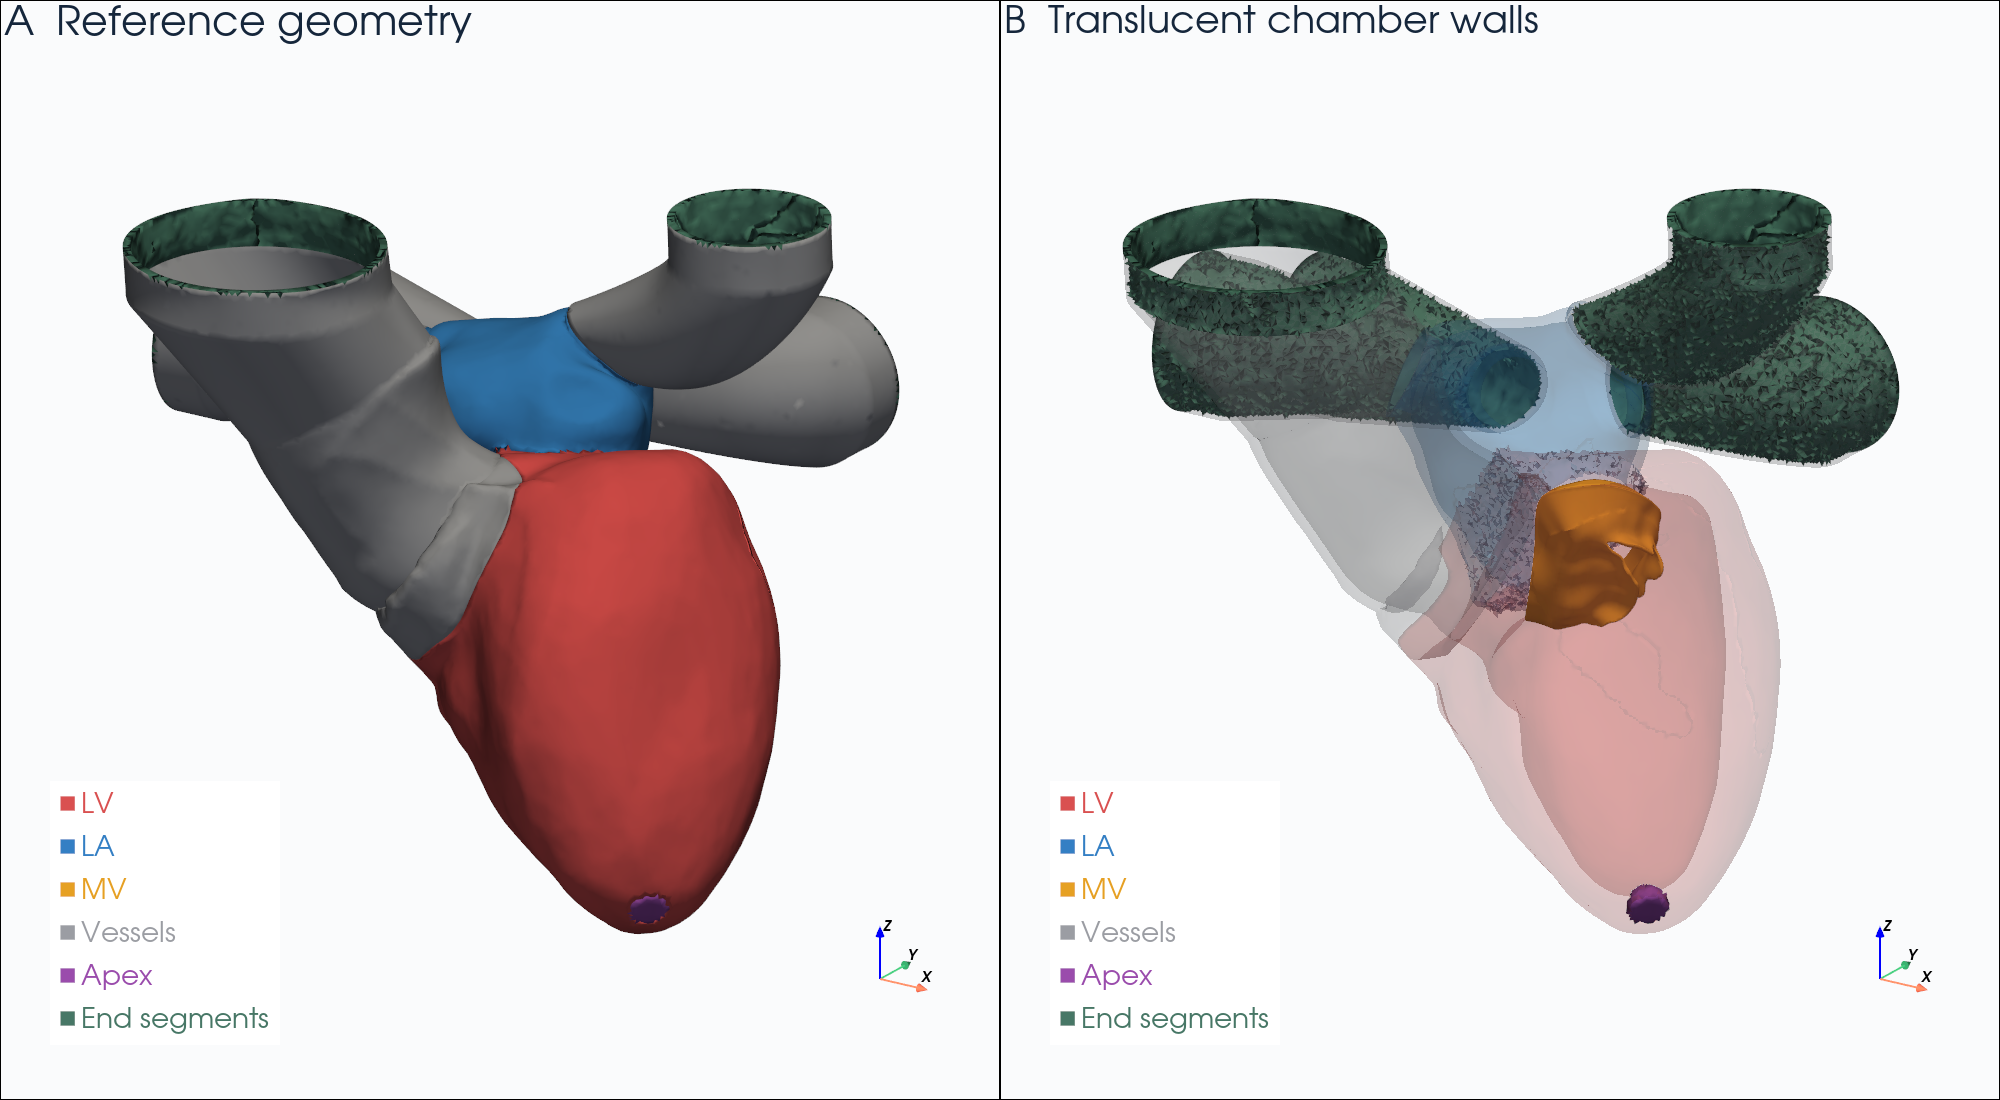
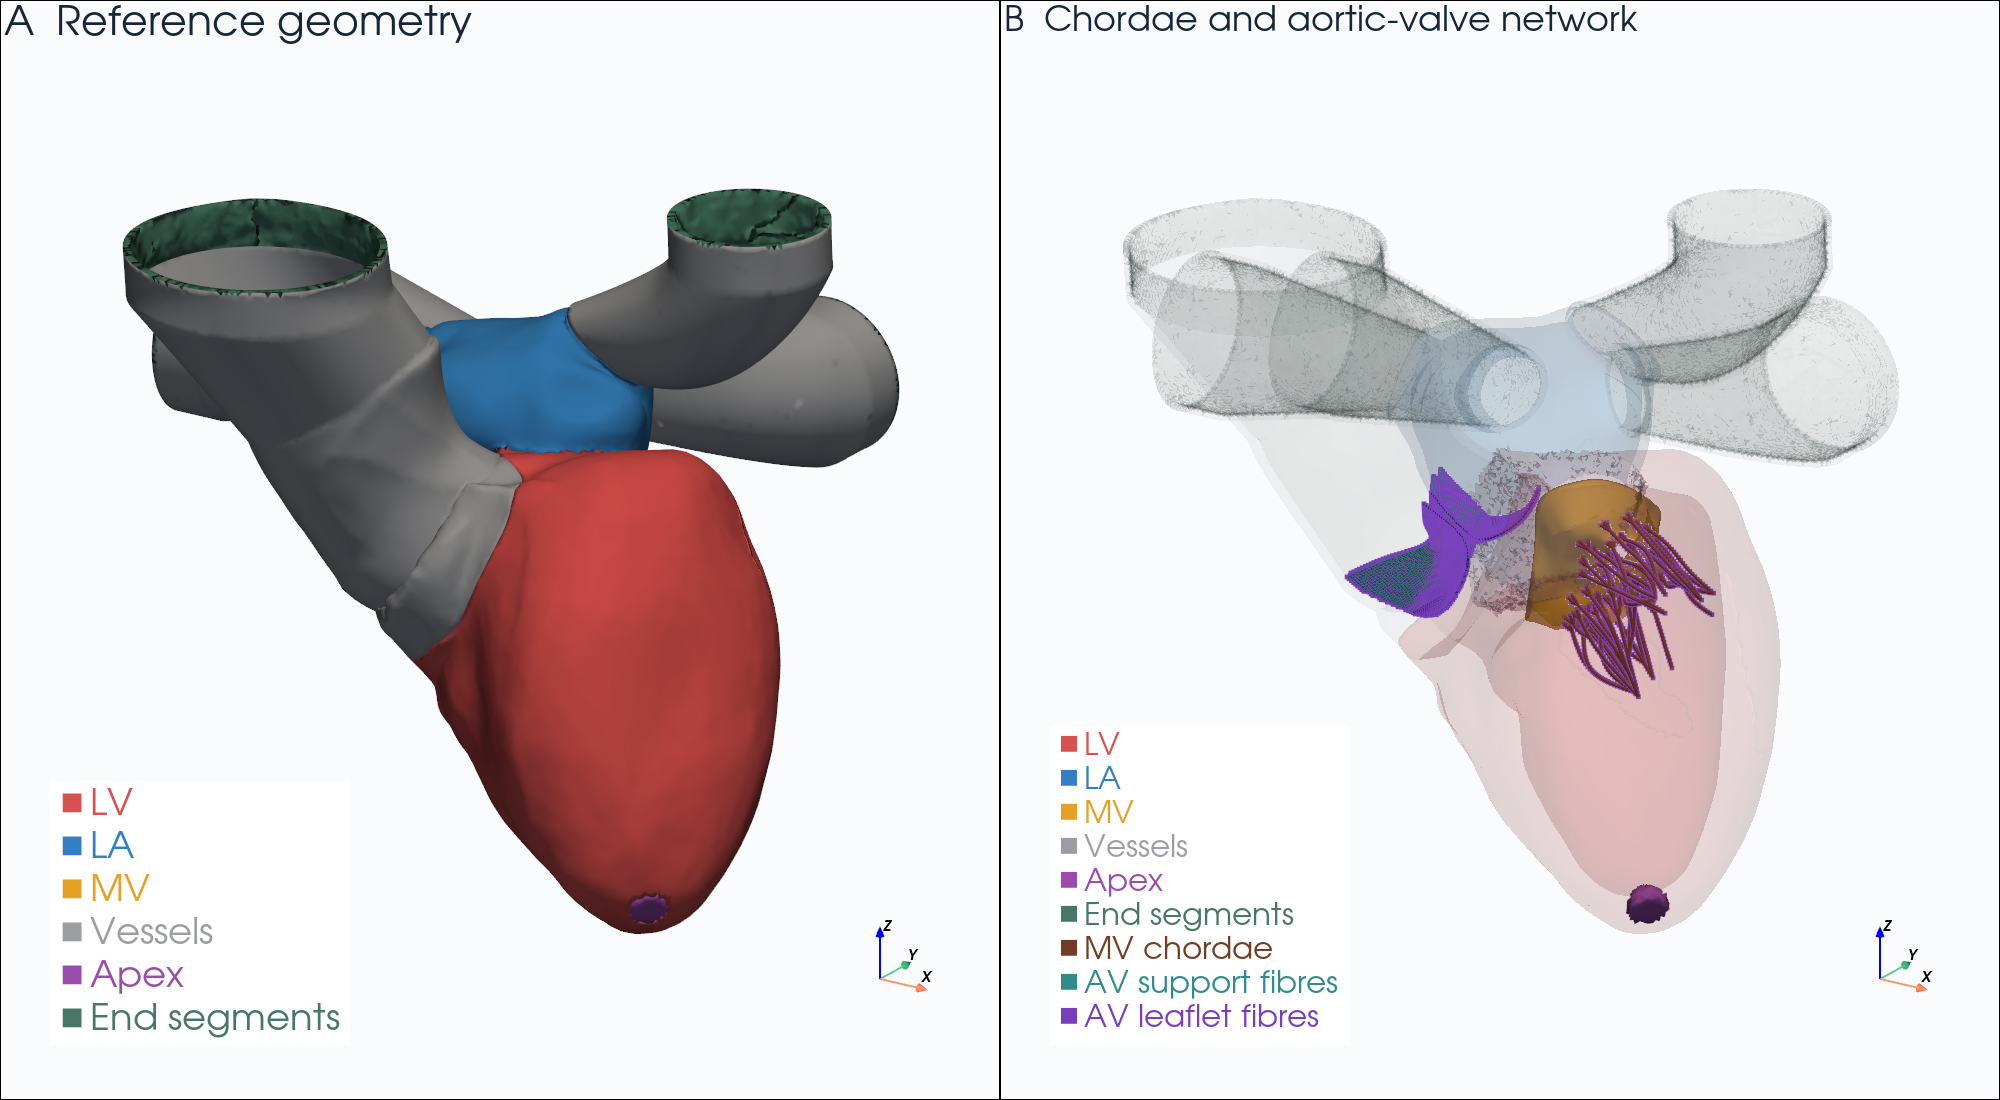
Expose chordae and aortic valve network in transparent geometry view

diff --git a/static/liuyang-lv-20261023/plot_model.py b/static/liuyang-lv-20261023/plot_model.py
@@ -24,13 +24,30 @@ for k,ids in groups.items():
  print(k,len(t),flush=True)
 def meshes(p,transparent=False):
  for k,s in surfs.items():p.add_mesh(s,color=COL[k],opacity=(.15 if transparent and k in ('LV','LA','Vessels') else 1),smooth_shading=True,label=k)
+# The solver classifies spring families by the zero-based master index.
+NET=Path('/home/Pengfei.Ma@glasgow.ac.uk/WholeLVHeartModelling/LiuyangLV/Alltogether')
+NX=np.loadtxt(str(NET)+'.vertex',skiprows=1)-[-5,-26.5,133.35]
+sp=np.loadtxt(str(NET)+'.spring',skiprows=1)[:,:2].astype(np.int64)
+m=sp[:,0];chord=m<=1565
+leaf=((m>=2871)&(m<=3083))|((m>=4439)&(m<=4648))|((m>=5980)&(m<=6448))
+def network(p):
+ for mask,color,label,width in [(chord,'#713e24','MV chordae',3),((~chord)&(~leaf),'#318b8b','AV support fibres',1.5),(leaf,'#793ec0','AV leaflet fibres',2.5)]:
+  seg=sp[mask];poly=pv.PolyData(NX);poly.lines=np.c_[np.full(len(seg),2),seg].ravel()
+  p.add_mesh(poly,color=color,line_width=width,render_lines_as_tubes=True,label=label)
 def camera(p):
  p.camera_position=[(36,-35,29),(7.5,9,9),(0,0,1)];p.camera.parallel_projection=True;p.camera.parallel_scale=11
 p=pv.Plotter(shape=(1,2),off_screen=True,window_size=(2000,1100));p.set_background('#fafbfC')
 for i in range(2):
- p.subplot(0,i);meshes(p,i==1);camera(p)
- p.add_text('A  Reference geometry' if i==0 else 'B  Translucent chamber walls',font_size=18,color='#15263b')
- p.add_axes(viewport=(.78,.02,.98,.20));p.add_legend(size=(.23,.24),bcolor='white',face='r',loc='lower left')
+ p.subplot(0,i)
+ if i==0: meshes(p)
+ else:
+  for k,mesh in surfs.items():
+   opacity={'Vessels':.035,'End segments':.035,'LV':.10,'LA':.08,'MV':.55}.get(k,1.)
+   p.add_mesh(mesh,color=COL[k],opacity=opacity,smooth_shading=True,label=k)
+  network(p)
+ camera(p)
+ p.add_text('A  Reference geometry' if i==0 else 'B  Chordae and aortic-valve network',font_size=18,color='#15263b')
+ p.add_axes(viewport=(.78,.02,.98,.20));p.add_legend(size=(.30,.29 if i==1 else .24),bcolor='white',face='r',loc='lower left')
 p.screenshot(str(OUT/'geometry.png'));p.close()
 # Opening centres in shifted simulation coordinates; numbered circles are schematic radii.
 centres=np.array([[0,13.604,10.658],[0,9.341,12.040],[10.782,16.12,11.177],[11.600,11.838,16.13],[4.190,5.180,16.13]])

diff --git a/content/posts/liuyang-lv-20261023.md b/content/posts/liuyang-lv-20261023.md
@@ -17,7 +17,7 @@ tags: ["FSI", "GPU", "left ventricle", "Liuyang"]
 
 该模型包含左心室（LV）、左心房（LA）、二尖瓣（MV）与瓣周结构、四支肺静脉及主动脉/主动脉根部，并非完整四腔心脏。几何来自本次计算使用的 `FC.xda` 转换数据：**217,379 个节点、1,044,779 个线性四面体（P1/TET4）**，每个单元采用一个重心积分点。日志中的通用字符串“P2 nodes”不代表这里采用二次单元；数据转换器和运行时的 `4 basis` 确认了 P1 离散。
 
-{{< figure src="/liuyang-lv-20261023/geometry.png" title="PyVista 直接从本次 ref_nodes.bin、dofmaps.bin 和 cell_marker.bin 提取的参考几何。左：组织外表面；右：半透明腔壁，显示内部二尖瓣及瓣周结构。红色 LV、蓝色 LA、黄色 MV/瓣周结构、灰色血管、紫色心尖支撑区、绿色血管端段。" >}}
+{{< figure src="/liuyang-lv-20261023/geometry.png" title="PyVista 直接从本次 ref_nodes.bin、dofmaps.bin 和 cell_marker.bin 提取的参考几何。左：组织外表面；右：血管、血管端段和腔壁透明化，叠加实际腱索与主动脉瓣伪纤维网络；棕色为 MV 腱索、青色为 AV 支撑纤维、紫色为 AV 瓣叶纤维。红色 LV、蓝色 LA、黄色 MV/瓣周结构、灰色血管、紫色心尖支撑区、绿色血管端段。" >}}
 
 | 图中分组 | 本次实际单元标记 | 四面体数 | 作用 |
 |---|---|---:|---|
@@ -30,7 +30,7 @@ tags: ["FSI", "GPU", "left ventricle", "Liuyang"]
 
 固体采用分区各向异性超弹性材料：LV/LA 为 HO-type 指数模型，二尖瓣为 Sarah HGO 型纤维增强模型，血管为指数材料；体积惩罚项控制组织压缩。每个单元读取纤维及片层方向。1 s 后启用 LV 的 NHS 主动张力和 LA 的规定主动张力，设定激活周期为 0.8 s。
 
-腱索与主动脉瓣的伪纤维通过额外的弹簧/梁网络表示，不应把图中的主动脉根部理解为一套单独解析的实体主动脉瓣叶。日志记录网络包含 6,449 个点、10,884 根弹簧、10,275 个梁项；其中 532 个点映射至有限元单元重心。几何图只显示四面体组织，未叠加该网络。
+腱索与主动脉瓣的伪纤维通过额外的弹簧/梁网络表示，不应把图中的主动脉根部理解为一套单独解析的实体主动脉瓣叶。日志记录网络包含 6,449 个点、10,884 根弹簧、10,275 个梁项；其中 532 个点映射至有限元单元重心。几何图右侧叠加 `Alltogether.vertex` 和 `.spring` 中的参考网络连线；按求解器的弹簧主节点编号区分 MV 腱索、AV 瓣叶纤维与其余 AV 支撑纤维。该图展示参考构型，主动脉瓣以离散伪纤维网络绘制。
 
 流体使用 128³ 笛卡尔网格，运动黏度为 0.04 cm²/s。组织与流体通过浸入边界（IB_4）插值/力扩散耦合，时间推进采用 RK2 中点方法。计算盒原坐标范围为 x∈[−5,12]、y∈[−26.5,−10.38]、z∈[133.35,149.48] cm；以下边界图减去左下角坐标，使范围成为 [0,17]×[0,16.12]×[0,16.13] cm。
 
